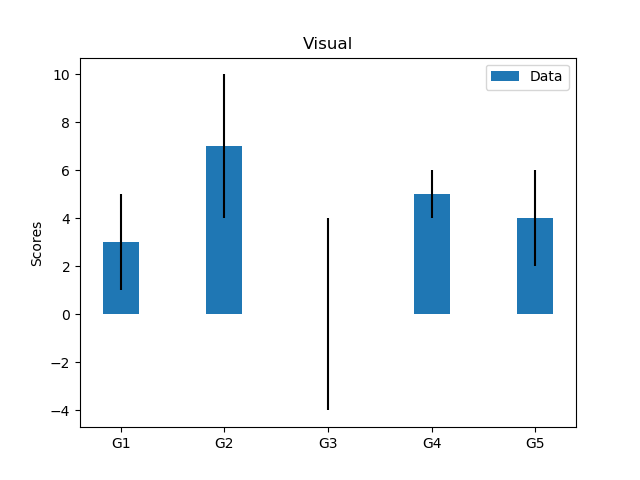
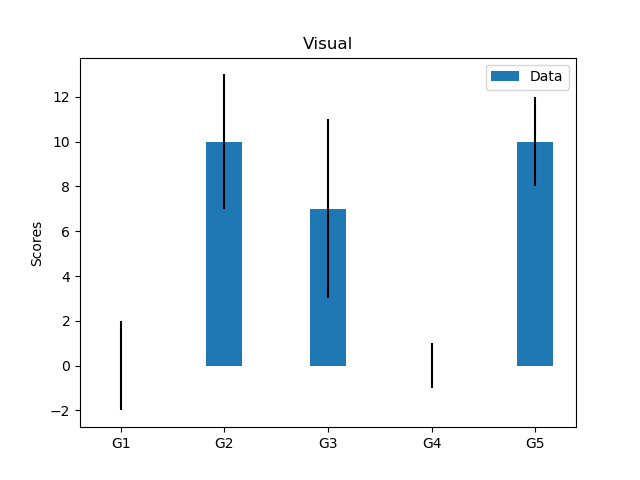
first commit

diff --git a/example.py b/example.py
@@ -2,7 +2,7 @@ import numpy as np
 import matplotlib.pyplot as plt
 
 labels = ['G1', 'G2', 'G3', 'G4', 'G5']
-m_means = [3,7,0,5,4]
+m_means = [0,10,7,0,10]
 m_std = [2, 3, 4, 1, 2]
 width = 0.35       # the width of the bars
 

diff --git a/README.md b/README.md
@@ -1,4 +1,4 @@
-# Plot no 99 
+# Plot no 100 
 
 matplotlib example
 
